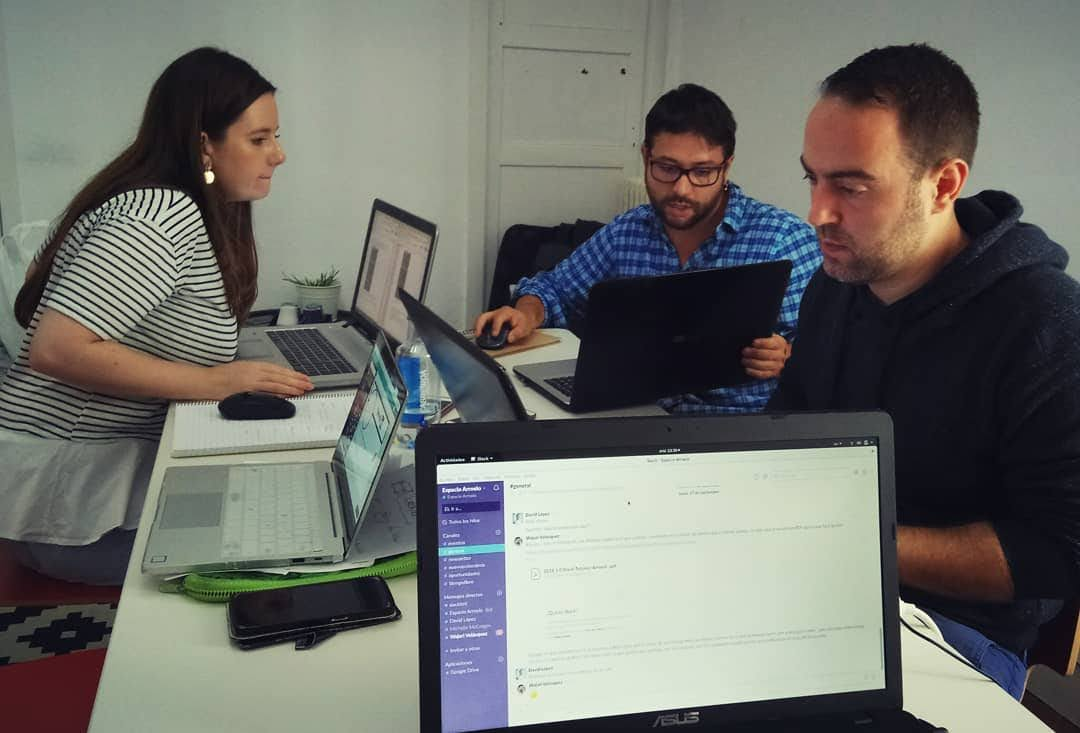
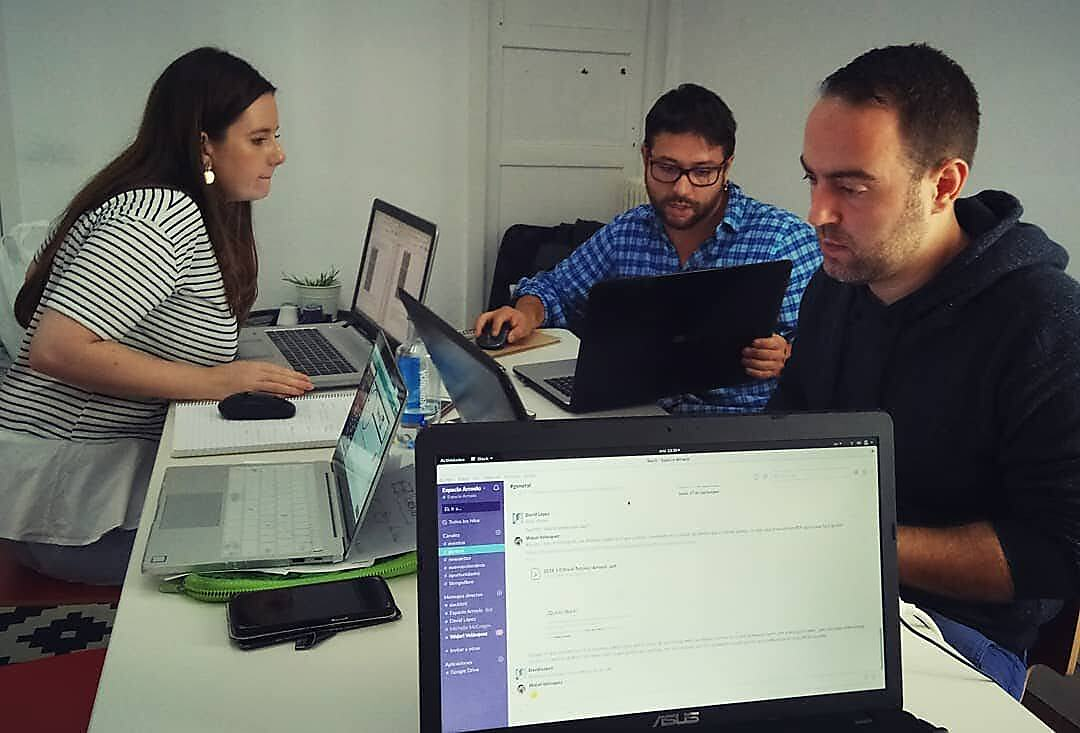
Mejora el post de historia de Espacio Arroelo: voz, enlaces y fotos
Reescribe en 1ª persona plural, enlaza LinkedIn (plataforma y perfiles),
prensa y Casa do Pobo; reordena imágenes, corrige huimos, sustituye la
foto de camiseta roja por Fearless Female y afila la de portátiles.

diff --git a/src/data/blog.ts b/src/data/blog.ts
@@ -3896,17 +3896,48 @@ export const blogPosts: BlogPost[] = [
     label: "Historia",
     image: "/photos/blog/africa-y-maria-eq.jpg",
     alt: "África Rodríguez y María Pierres pintan el mural «el mundo pertenece a quienes se atreven»",
+    imageFit: "cover",
+    imagePosition: "top",
     excerpt:
       "Cómo África Rodríguez y María Pierres fundaron Espacio Arroelo en 2013: de un encuentro en LinkedIn a más de una década de coworking en Pontevedra.",
     body: [
       "Hay historias de coworking que empiezan con un plan de negocio. La nuestra empezó con un mensaje.",
-      "En 2012, las vidas de María Pierres y África Rodríguez se cruzaron en LinkedIn. María, arquitecta; África, consultora. Dos autónomas en Pontevedra que, cada una a su manera, habían descubierto lo mismo: trabajar en casa puede ser práctico, pero también es un callejón sin red. «Tenía la sensación de que desde mi ordenador no iba a conocer a nadie», contaba África en aquellos primeros meses. María había dejado su propia oficina y sentía la misma falta: un lugar donde el trabajo no fuera solo productividad, sino compañía.",
+      {
+        type: "p",
+        parts: [
+          "En 2012 nos cruzamos en ",
+          {
+            type: "link",
+            href: "https://www.linkedin.com/",
+            text: "LinkedIn",
+            external: true,
+          },
+          ": ",
+          {
+            type: "link",
+            href: "https://www.linkedin.com/in/mariapierres",
+            text: "María Pierres",
+            external: true,
+          },
+          ", arquitecta, y ",
+          {
+            type: "link",
+            href: "https://www.linkedin.com/in/rodriguezafricacoworking/",
+            text: "África Rodríguez",
+            external: true,
+          },
+          ", consultora. Éramos dos autónomas en Pontevedra que, cada una a su manera, habíamos descubierto lo mismo: trabajar en casa puede ser práctico, pero también es un callejón sin red. «Tenía la sensación de que desde mi ordenador no iba a conocer a nadie», decíamos en aquellos primeros meses. Habíamos dejado oficinas propias o el ritmo de casa y sentíamos la misma falta: un lugar donde el trabajo no fuera solo productividad, sino compañía.",
+        ],
+      },
       "En menos de seis meses pasamos de la conversación a la acción. Si en la ciudad no existía el espacio que necesitábamos, lo íbamos a crear.",
       {
         type: "image",
         src: "/photos/blog/fundadoras-abrazo-gafas.jpg",
         alt: "África Rodríguez y María Pierres, fundadoras de Espacio Arroelo, abrazadas y sonriendo",
         caption: "Manos a la obra: la casa que queríamos habitar, juntas.",
+        // Retrato vertical: contain + top evita cortar las cabezas.
+        fit: "contain",
+        position: "top",
       },
       {
         type: "h2",
@@ -3925,8 +3956,20 @@ export const blogPosts: BlogPost[] = [
           " hablaba de cómo «el coworking se instalaba en Galicia» y nos presentaba como un espacio pionero en Pontevedra. Abrimos en la tercera planta del número 11 de la calle Michelena: salas, puestos de trabajo, internet, office… y, sobre todo, la intención explícita de generar sinergias entre profesionales que, en principio, no tenían por qué cruzarse.",
         ],
       },
-      "Desde el principio huyimos de la idea de que un coworking es solo un espacio físico. Queríamos que quienes entraran se comprometieran con unas normas básicas de convivencia y, a la vez, con algo más intangible: la posibilidad de que el proyecto de al lado alimentara el tuyo. En aquellas salas también cabía el arte: exposiciones, cursos, conversaciones que no cabían en un Excel.",
-      "El Diario de Pontevedra, un año después, ya hablaba de un grupo que había pasado de cinco personas iniciales a más de treinta asociadas, y de una sede que se expandía por la planta del edificio. Arroelo —con ese eco del «hai que roelo» pontevedrés— empezaba a ser, para mucha gente, sinónimo de otra forma de trabajar en la ciudad.",
+      "Desde el principio huimos de la idea de que un coworking es solo un espacio físico. Queríamos que quienes entraran se comprometieran con unas normas básicas de convivencia y, a la vez, con algo más intangible: la posibilidad de que el proyecto de al lado alimentara el tuyo. En aquellas salas también cabía el arte: exposiciones, cursos, conversaciones que no cabían en un Excel.",
+      {
+        type: "p",
+        parts: [
+          "El ",
+          {
+            type: "link",
+            href: "https://www.diariodepontevedra.es/articulo/pontevedra-ciudad/el-boom-del-coworking-llega-pontevedra/20140605010500254397.html",
+            text: "Diario de Pontevedra",
+            external: true,
+          },
+          ", un año después, ya hablaba de un grupo que había pasado de cinco personas iniciales a más de treinta asociadas, y de una sede que se expandía por la planta del edificio. Arroelo —con ese eco del «hai que roelo» pontevedrés— empezaba a ser, para mucha gente, sinónimo de otra forma de trabajar en la ciudad.",
+        ],
+      },
       {
         type: "image",
         src: "/photos/blog/coworking-mesa-slack.jpg",
@@ -3939,26 +3982,25 @@ export const blogPosts: BlogPost[] = [
       {
         type: "p",
         parts: [
-          "Los primeros años —aún en Michelena— ya se veían en fotos de comunidad: el ",
+          "De aquel germen —abrir el salón, practicar el «co», no dejar sola a quien busca— salieron programas de empleo como ",
           {
             type: "link",
-            href: "https://www.facebook.com/media/set/?set=a.622966211124363&type=3",
-            text: "álbum de Facebook del coworking en 2014",
-            external: true,
+            href: "/blog/colabora-2015-espacio-arroelo",
+            text: "Colabora",
           },
-          " recoge ese tono de casa compartida. Desde ahí salieron también las ",
-          {
-            type: "link",
-            href: "/blog/global-service-jam-creatividad-arroelo",
-            text: "PonteJam",
-          },
-          " y la ",
+          ", eventos de impacto social como la ",
           {
             type: "link",
             href: "/blog/human-library-espacio-arroelo",
             text: "Human Library",
           },
-          ": el salón no era solo puesto de trabajo.",
+          " e iniciativas de creatividad internacional como ",
+          {
+            type: "link",
+            href: "/blog/global-service-jam-creatividad-arroelo",
+            text: "PonteJam",
+          },
+          ". El salón no era solo puesto de trabajo: era laboratorio de comunidad.",
         ],
       },
       {
@@ -3971,8 +4013,14 @@ export const blogPosts: BlogPost[] = [
             text: "Faro de Vigo",
             external: true,
           },
-          " recogía nuestra sorpresa al mirar atrás: habíamos empezado sin imaginar que el proyecto iba a durar tanto ni a generar una familia tan grande. Alrededor de setenta personas formaban ya parte de esa constelación —«aunque seguro que somos más», decía África—. En una década, unas doscientas emprendedoras y emprendedores pasaron por Arroelo. Algunas se quedaron años; otras hicieron escala y siguieron camino. Todas dejaron huella.",
+          " recogía nuestra sorpresa al mirar atrás: habíamos empezado sin imaginar que el proyecto iba a durar tanto ni a generar una familia tan grande. Alrededor de setenta personas formaban ya parte de esa constelación —«aunque seguro que somos más», decíamos—. En una década, unas doscientas emprendedoras y emprendedores pasaron por Arroelo. Algunas se quedaron años; otras hicieron escala y siguieron camino.",
         ],
+      },
+      {
+        type: "image",
+        src: "/photos/blog/soy-autonomo-abrazo.jpg",
+        alt: "Niña asomada tras un globo corazón rojo con el mensaje «Soy autónom@ dame un abrazo» en un encuentro de comunidad",
+        caption: "La familia coworker: más de doscientas personas en una década.",
       },
       {
         type: "image",
@@ -3983,7 +4031,7 @@ export const blogPosts: BlogPost[] = [
       {
         type: "p",
         parts: [
-          "Lo que nos ha sostenido no ha sido un modelo de franquicia ni una fórmula mágica. Ha sido la inteligencia colectiva: compartir conocimiento, lanzar proyectos juntas, aprovechar que en el mismo pasillo pueden convivir derecho, arquitectura, diseño, tecnología o educación. África pasó de freelance del sector legal a acompañar a empresas en la creación de comunidades. María aportó mirada de espacio y de cuidado del lugar. Nosotras dos aprendimos, una y otra vez, que el «co» de coworking no es un prefijo de marketing: es una práctica diaria. Hoy esa ",
+          "Lo que nos ha sostenido no ha sido un modelo de franquicia ni una fórmula mágica. Ha sido la inteligencia colectiva: compartir conocimiento, lanzar proyectos juntas, aprovechar que en el mismo pasillo pueden convivir derecho, arquitectura, diseño, tecnología o educación. Aprendimos a acompañar comunidades y a cuidar el espacio. Una y otra vez comprobamos que el «co» de coworking no es un prefijo de marketing: es una práctica diaria. Hoy esa ",
           {
             type: "link",
             href: "/coworkers",
@@ -3992,18 +4040,38 @@ export const blogPosts: BlogPost[] = [
           " sigue siendo el centro de todo.",
         ],
       },
-      {
-        type: "image",
-        src: "/photos/blog/soy-autonomo-abrazo.jpg",
-        alt: "Globo corazón rojo con el mensaje «Soy autónom@ dame un abrazo» en un encuentro de comunidad",
-        caption: "La familia coworker: más de doscientas personas en una década.",
-      },
       { type: "h2", text: "Crisis, pandemia y mudanza: seguir siendo Arroelo" },
-      "Ninguna década es una línea recta. Hubo pandemia. Hubo incertidumbre. Y hubo, en 2022, la noticia de que el edificio de Michelena —nuestro primer hogar— enfrentaba un proceso de derribo. La Voz de Galicia lo contó con crudeza: inquilinas que tenían que irse de un inmueble emblemático. Nosotras teníamos claro que Arroelo iba a seguir. «Bienvenida incertidumbre», dijimos entonces, con más miedo del que admitimos y más confianza de la que el momento merecía.",
       {
         type: "p",
         parts: [
-          "En febrero de 2023, Onda Cero se hacía eco de que la comunidad remataba la mudanza y estrenaba local y salón. Hoy estamos en Cobián Roffignac, planta 3, en el centro de Pontevedra: mismo espíritu, otra casa. Parte del mobiliario de Michelena encontró nueva vida en la Casa do Pobo de ",
+          "Ninguna década es una línea recta. Hubo pandemia. Hubo incertidumbre. Y hubo, en 2022, la noticia de que el edificio de Michelena —nuestro primer hogar— enfrentaba un proceso de derribo. ",
+          {
+            type: "link",
+            href: "https://www.lavozdegalicia.es/noticia/pontevedra/pontevedra/2022/11/27/noticia-triste-edificio-paso-albergar-falange-abrazar-modernidad/0003_202211P27C3991.htm",
+            text: "La Voz de Galicia",
+            external: true,
+          },
+          " lo contó con crudeza: inquilinas que tenían que irse de un inmueble emblemático. Nosotras teníamos claro que Arroelo iba a seguir. «Bienvenida incertidumbre», dijimos entonces, con más miedo del que admitimos y más confianza de la que el momento merecía.",
+        ],
+      },
+      {
+        type: "p",
+        parts: [
+          "En febrero de 2023, ",
+          {
+            type: "link",
+            href: "https://www.ondacero.es/podcast/emisoras/pontevedra/mas-de-uno-pontevedra/comunidade-arroelo-remata-sua-mudanza-estrea-local-salon_2023020863e3a5c2e72db0e4318183b8.html",
+            text: "Onda Cero",
+            external: true,
+          },
+          " se hacía eco de que la comunidad remataba la mudanza y estrenaba local y salón. Hoy estamos en Cobián Roffignac, planta 3, en el centro de Pontevedra: mismo espíritu, otra casa. Parte del mobiliario de Michelena encontró nueva vida en la ",
+          {
+            type: "link",
+            href: "https://casadopobo.com",
+            text: "Casa do Pobo",
+            external: true,
+          },
+          " de ",
           {
             type: "link",
             href: "https://anceu.com/",
@@ -4015,9 +4083,10 @@ export const blogPosts: BlogPost[] = [
       },
       {
         type: "image",
-        src: "/photos/blog/disfruta-arroelo-camiseta.jpg",
-        alt: "Coworkers de Espacio Arroelo con la camiseta Disfruta Arroelo en el salón de Pontevedra",
-        caption: "Misma familia, otra casa: el espíritu viajó con nosotras.",
+        src: "/photos/blog/grupo-mujeres-fearless.jpg",
+        alt: "Grupo de mujeres de la comunidad Arroelo posando con fuerza; una lleva la camiseta Fearless Female",
+        caption:
+          "Misma familia, otra casa: comunidad, fuerza y el espíritu que viajó con nosotras.",
       },
       { type: "h2", text: "Lo que nos sostiene hoy" },
       {
@@ -4071,7 +4140,7 @@ export const blogPosts: BlogPost[] = [
           ". Mira la ",
           {
             type: "link",
-            href: "/#tarifa",
+            href: "/tarifas",
             text: "tarifa",
           },
           ", pasea por el ",
